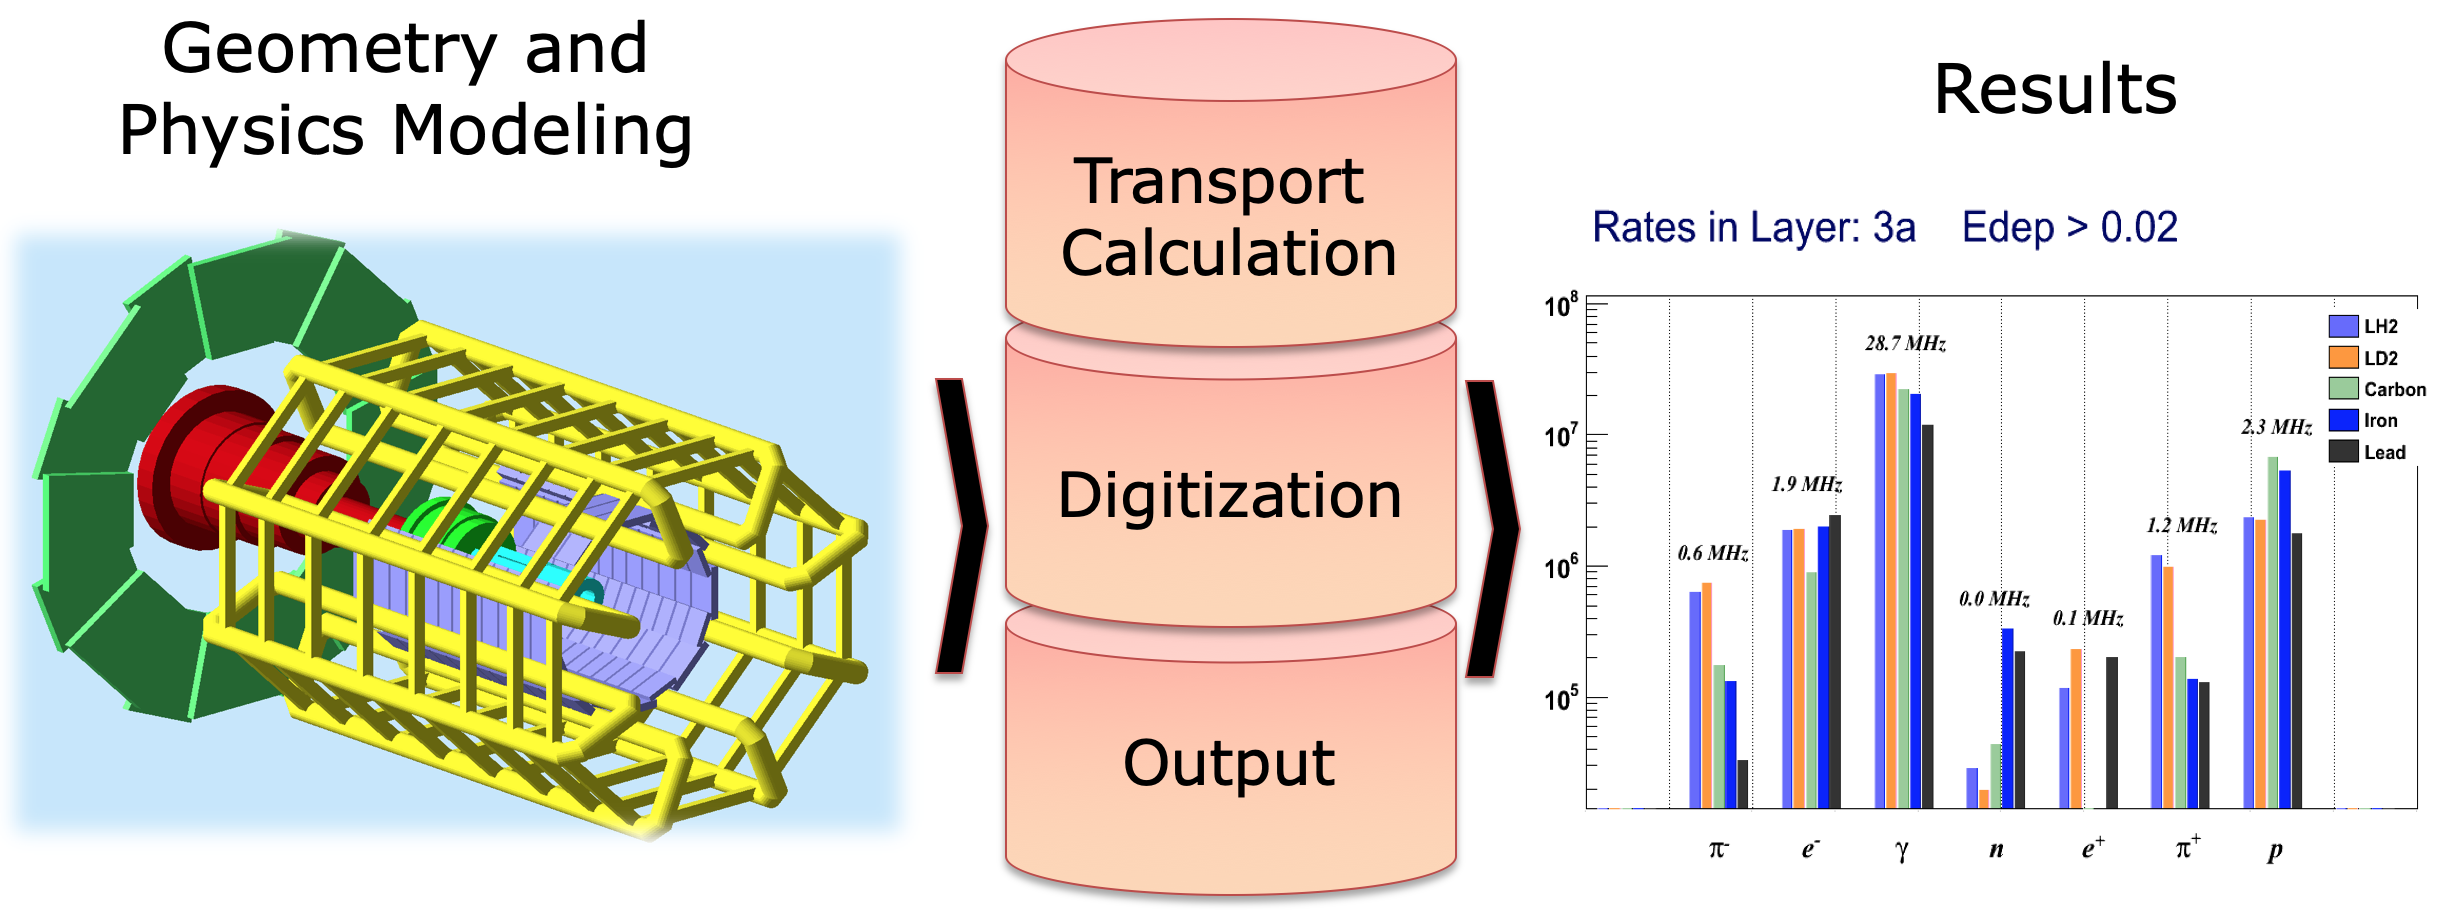
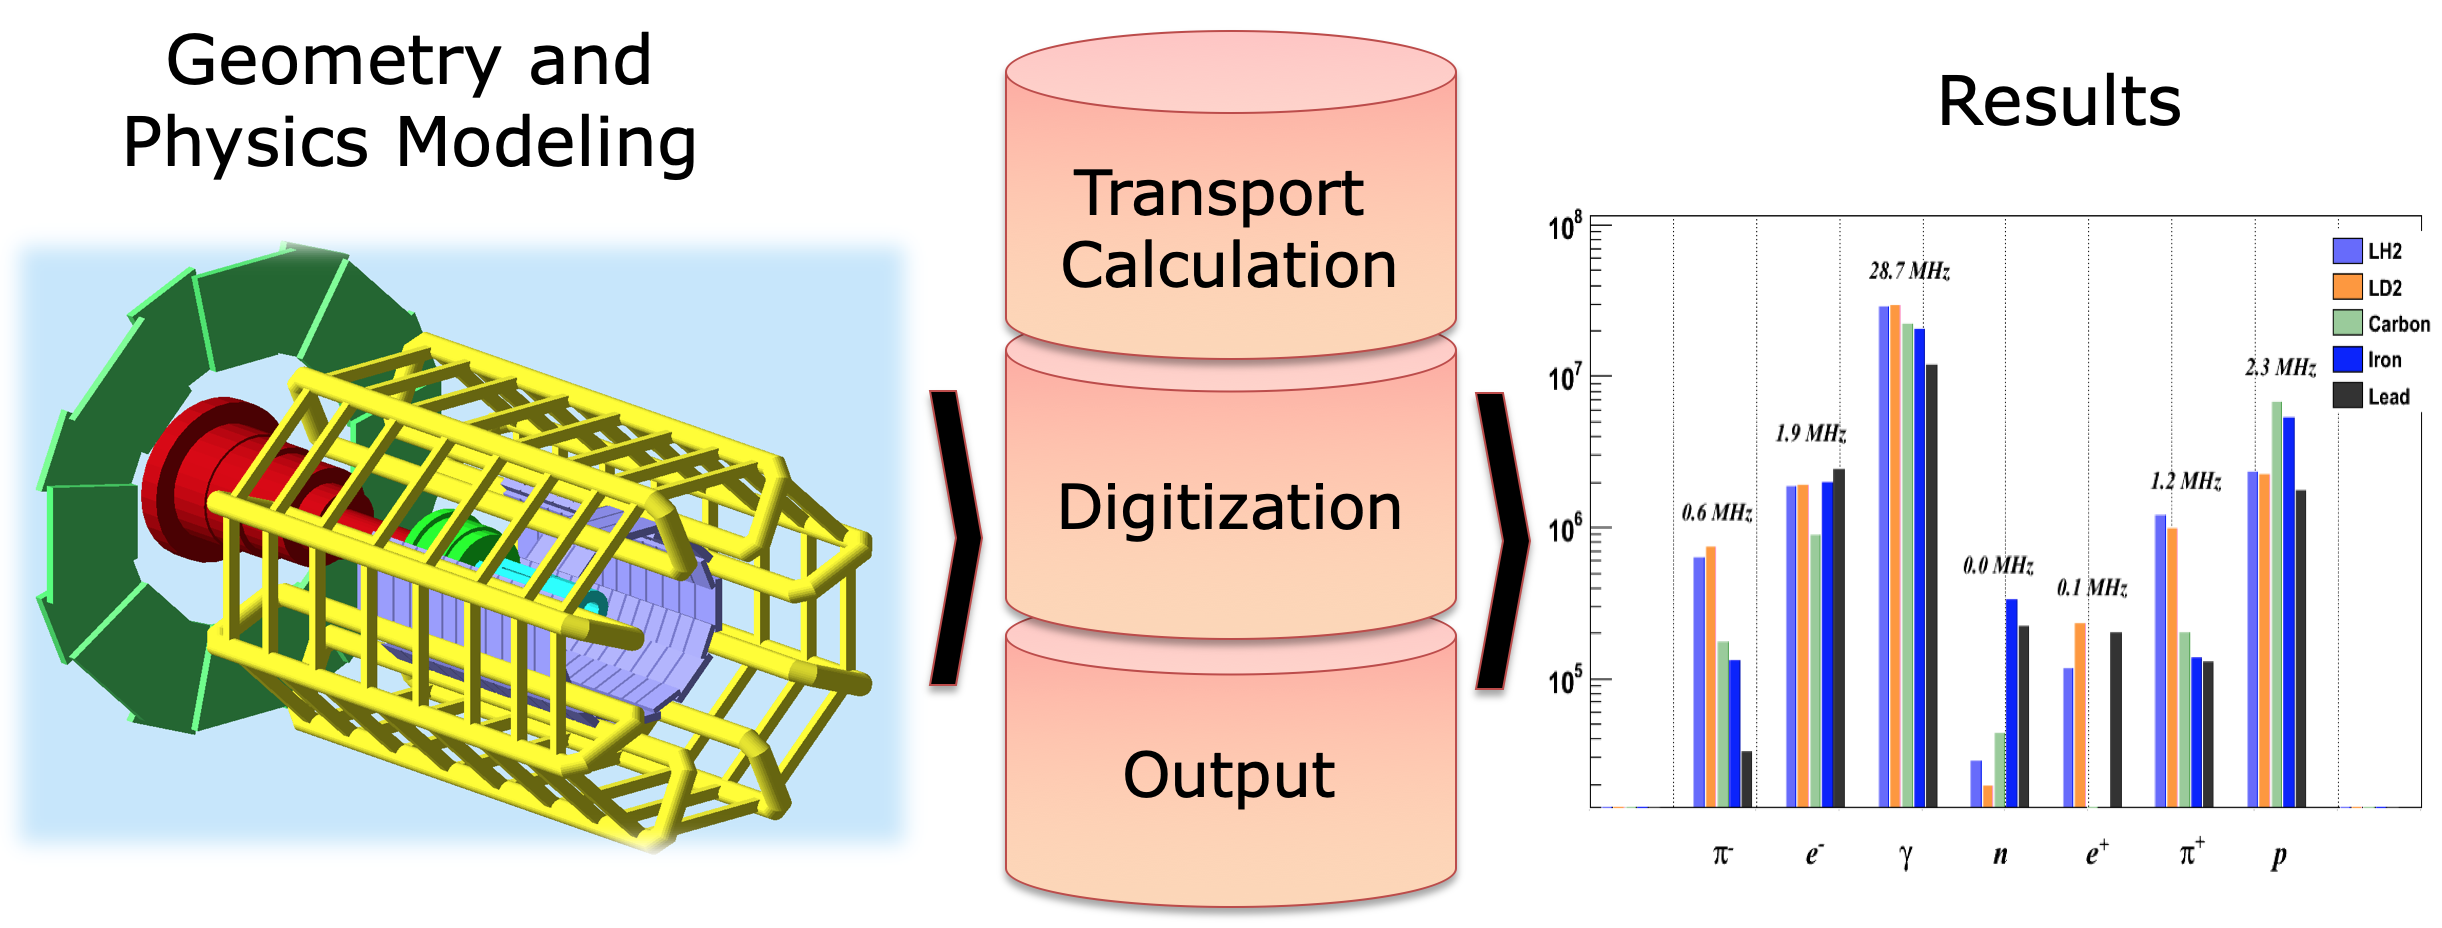
improved overview pictures and section corrections

diff --git a/simulations/overview.tex b/simulations/overview.tex
@@ -42,9 +42,10 @@ The design of the framework is summarized in \F{gemcDesign}.
 \begin{figure}
 	\centering
 	\includegraphics[width=0.98\columnwidth,keepaspectratio]{img/gemcDesign.png}
-	\caption{The architecture of GEMC. The Geant4 objects are defined in an external database. Geant4 is used to simulate the
-             passage of particles through materials, and hits are digitized with plugins defined by the user
-             and collected in user-defined outputs. }
+	\caption{The architecture of GEMC. The simulation parameters are stored in an external database. GEMC collects
+             them and organize the necessary Geant4 ingredients used to simulate the
+             passage of particles through materials and sensitive regions. The hits are digitized with
+             plugins defined by the user and collected in user-defined outputs.  }
 	\label{fig:gemcDesign}
 \end{figure}
 
@@ -56,9 +57,9 @@ The databases can be defined using the following factories:
 
 \begin{itemize}
 	\item GEMC native API (Perl or Python)
-	\item geometry service
-	\item cad (stl, ply, obj formats)
-	\item gdml, c++ plugins (not used in CLAS12)
+	\item java algorithms used by both simulation and the CLAS12 Event Reconstruction software \cite{reco2019}, or ``geometry services''
+	\item CAD (stl, ply, obj formats)
+	\item GDML, c++ plugins (not used in CLAS12)
 \end{itemize}
 
 The GEMC native API repository is \url{https://github.com/gemc/api}. The geometry service code repository is
@@ -67,24 +68,24 @@ The GEMC native API repository is \url{https://github.com/gemc/api}. The geometr
 
 \subsubsection{Geometry database using native API or geometry service}
 
-An example of the code to define and store a Geant4 volume in external databases is shown below. The
-numbers are typically hardcoded, come from a calibration databases or are defined in the geometry service. The material
+An example of the code to define and store a Geant4 volume in an external database is shown below. The
+numbers come typically from a calibration database or are defined in the geometry service. The material
 has a similar interface.
 
 \begin{lstlisting}[language=Perl]
 my %detector = init_det();
 
-$detector{"name"}        = "shield";
-$detector{"mother"}      = "root";
-$detector{"description"} = "bst";
-$detector{"color"}       = "88aaff";
-$detector{"pos"}         =  "0*cm 1*cm 2*cm" ;
-$detector{"material"}    = "G4_W";
-$detector{"type"}        = "Tube";
-$detector{"dimensions"}  = "0*mm 10*mm 20*mm 0*deg 260*deg";
-$detector{"visible"}     = 1;
-$detector{"style"}       = 1;
-print_det(\%configuration, \%detector);
+$d{"name"}       = "shield";
+$d{"mother"}     = "root";
+$d{"descr"}      = "bst";
+$d{"color"}      = "88aaff";
+$d{"pos"}        = "0*cm 1*cm 2*cm" ;
+$d{"material"}   = "G4_W";
+$d{"type"}       = "Box";
+$d{"dimensions"} = "1*mm 2*mm 3*mm ";
+$d{"visible"}    = 1;
+$d{"style"}      = 1;
+print_det(\%configuration, \%d);
 
 \end{lstlisting}
 
@@ -94,47 +95,59 @@ print_det(\%configuration, \%detector);
 The Hall B detectors and their supports are designed with 3D CAD software. This includes a reference system and the
 hierarchy of all detector elements, down to details like nuts and bolts.
 
-The CAD models are exported into STP files \cite{stepFiles}.
-In order to import them into a Geant4 simulation, first the volumes relevant to the simulation are selected, see \F{cadSelection}.
-
-\begin{figure}
+\begin{figure}[h]
 	\centering
 	\includegraphics[width=0.98\columnwidth,keepaspectratio]{img/cadSelection.png}
-	\caption{The selection of the volumes that will be used in the GEMC Geant4 simulation.
-             This typically involves filtering out unnecessary volumes that are not in the active region.}
+	\caption{The engineering model of one of the CLAS12 detectors, before importing it into GEMC.
+             The model may be composed by thousands of elements, not all of them relevant to the the GEMC Geant4 simulation.
+             The import process involves filtering out unnecessary volumes that are not in the active region.}
 	\label{fig:cadSelection}
 \end{figure}
 
-The elements in the STP file are then ``tessellated'': several polygon shapes are created to define a Geant4 volume.
-The software used to do this is FreeCad \cite{freeCad}. An example of tessellation showing the polygon shapes
+The CAD models are exported into STP files \cite{stepFiles}.
+In order to import them into a Geant4 simulation, the volumes relevant to the simulation are selected from the engineering
+model stored in one of the CAD data exchange format (typically a STEP file) \cite{cadExchange}, see \F{cadSelection}.
+
+
+The elements in the STP file are then ``tessellated'', in which polygonal shapes are created to define a Geant4 volume
+that best represent the original CAD element.
+The software used to do this is FreeCad \cite{freeCad}. An example of tessellation showing the polygonal shapes
 is shown in \F{targetScatteringChamber}.
 
 The simulated CAD import is as close to reality as the engineering model is close to reality.
-We did encounter differences between the STP files, the drawings and reality in a few occasions and worked
-out a workflow to eliminate any discrepancy, see \F{cadValidation}.
-
+We did encounter differences between the STP files, the drawings, and reality in a few occasions and designed
+a workflow to eliminate any discrepancies, see \F{cadValidation}.
+An example of the CAD validation is shown in \F{cadValidationExample}.
 
 \begin{figure}
 	\centering
-	\includegraphics[width=0.95\columnwidth,keepaspectratio]{img/cadValidation.png}
-	\caption{There are four possible representation of a volume: the one coming from the STP file
-             and the tessellated one are exactly the same object (within the tessellation precision).
-             In some cases, certain elements and their sizes and positions did not match the drawings.
-             In other cases, they did not match what was built and measured, or their position did not
-             match the survey. To eliminate these occurrences physicists and engineers worked until
-             the final iteration of a volume was the same in all 4 models: STP/GEMC, Drawings and Reality}
-	\label{fig:cadValidation}
+	\includegraphics[width=0.95\columnwidth,keepaspectratio]{img/targetScatteringChamber.png}
+	\caption{An example of volume from a STP file tessellated in GEMC. The volume that is shown is the target scattering chamber.
+            Top: the CAD representation in the engineering model. Bottom: the tessellation. }
+	\label{fig:targetScatteringChamber}
 \end{figure}
 
-An example of the cad validation is shown in \F{cadValidationExample}.
+
+%\begin{figure}
+%	\centering
+%	\includegraphics[width=0.95\columnwidth,keepaspectratio]{img/cadValidation.png}
+%	\caption{There are four possible representation of a volume: the one coming from the STP file
+%            and the tessellated one are exactly the same object (within the tessellation precision).
+%             In some cases, certain elements and their sizes and positions did not match the drawings.
+%             In other cases, they did not match what was built and measured, or their position did not
+%             match the survey. To eliminate these occurrences physicists and engineers worked until
+%             the final iteration of a volume was the same in all 4 models: STP/GEMC, Drawings and Reality}
+%	\label{fig:cadValidation}
+%\end{figure}
+
 
 \begin{figure}
 	\centering
 	\includegraphics[width=0.95\columnwidth,keepaspectratio]{img/cadValidationExample.png}
-	\caption{An example of comparing the GEMC simulation to the drawings. Top: engineering drawings of
-             the CLAS12 beamline and shielding. The start of the Moeller shielding is 87.77 cm downstream
-             of the target center. Bottom: a geantino is shot vertically at z=87.77 cm, showing that the
-             Geant4 cone position agrees with the drawings.}
+	\caption{An example of comparing the GEMC simulation to the drawings and validating the geometry.
+             Top: engineering drawings of the CLAS12 beamline and shielding. The start of the M\"oller shielding is 87.77 cm downstream
+             of the target center. Bottom: a geantino (a special Geant4 particle that does not interact with materials or fields)
+             is shot vertically at z=87.77 cm, showing that the Geant4 cone position agrees with the drawings.}
 	\label{fig:cadValidationExample}
 \end{figure}
 
@@ -145,9 +158,10 @@ The magnetic fields are loaded from ascii files. The following Geant4 parameters
 command line options or configuration files at run time:
 
 \begin{itemize}
-	\item minStep: minimum step in the magnetic field
-	\item integralAlgorithm: compute the field value from the closest cell or using a linear interpolation
-	\item interpolationMethod: interpolation algorithm, such as G4ClassicalRK4, G4SimpleRunge, etc
+	\item minStep: minimum track distance in the magnetic field (step) before re-computing its value
+	\item integralAlgorithm: compute the field value from the closest cell or using a linear (or bi-linear) interpolation
+	\item interpolationMethod: interpolation algorithm used to transport tracks in magnetic fields, typically
+		  a variation (choice of order and/or precision) of Runge Kutta \cite{rungeKutta} methods
 \end{itemize}
 
 The implementation of the CLAS12 magnetic fields is described in \ref{clas12FieldMaps}.

diff --git a/simulations/target.tex b/simulations/target.tex
@@ -5,13 +5,6 @@ in the GEMC simulation \cite{targetCorrection}, \cite{targetStudy}.
 
 An example of the tessellation is shown in \F{targetScatteringChamber}.
 
-\begin{figure}
-	\centering
-	\includegraphics[width=0.95\columnwidth,keepaspectratio]{img/targetScatteringChamber.png}
-	\caption{An example of volume from a STP file tessellated in GEMC. The volume that is shown is the target scattering chamber.
-            Top: the CAD representation in the engineering model. Bottom: the tessellation. }
-	\label{fig:targetScatteringChamber}
-\end{figure}
 
 Key elements of the STL import include the torlon tube to the target cell,
 the target aluminum windows and kapton walls and the scattering chamber, see \F{targetDesign}.
